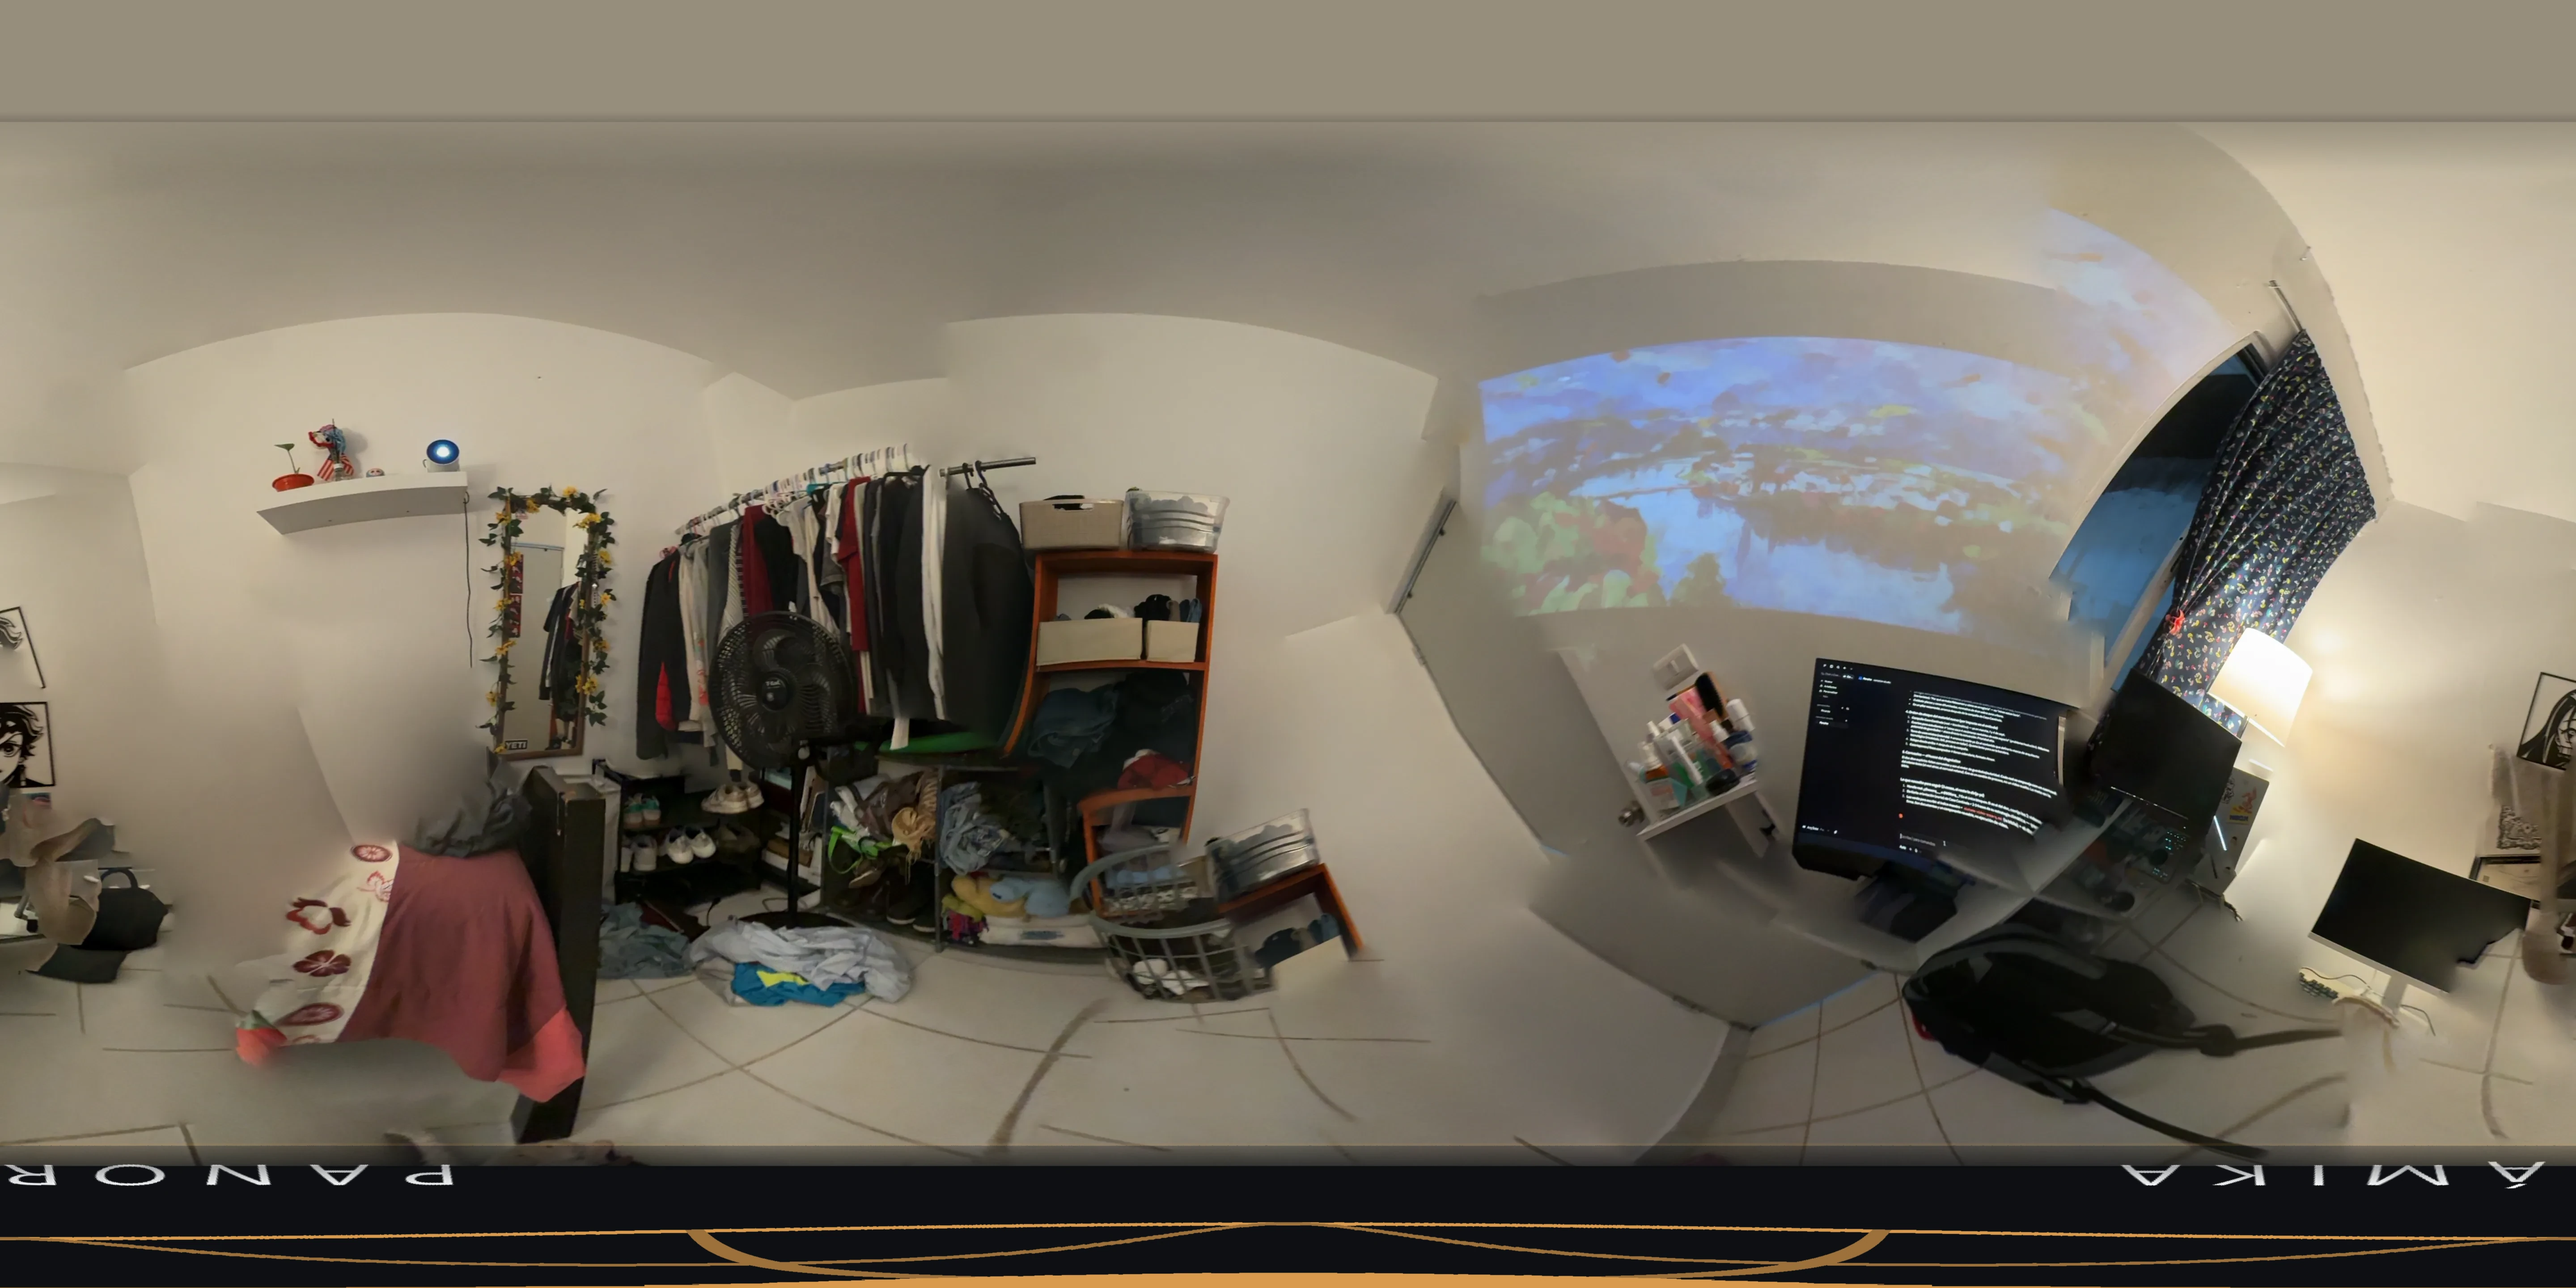
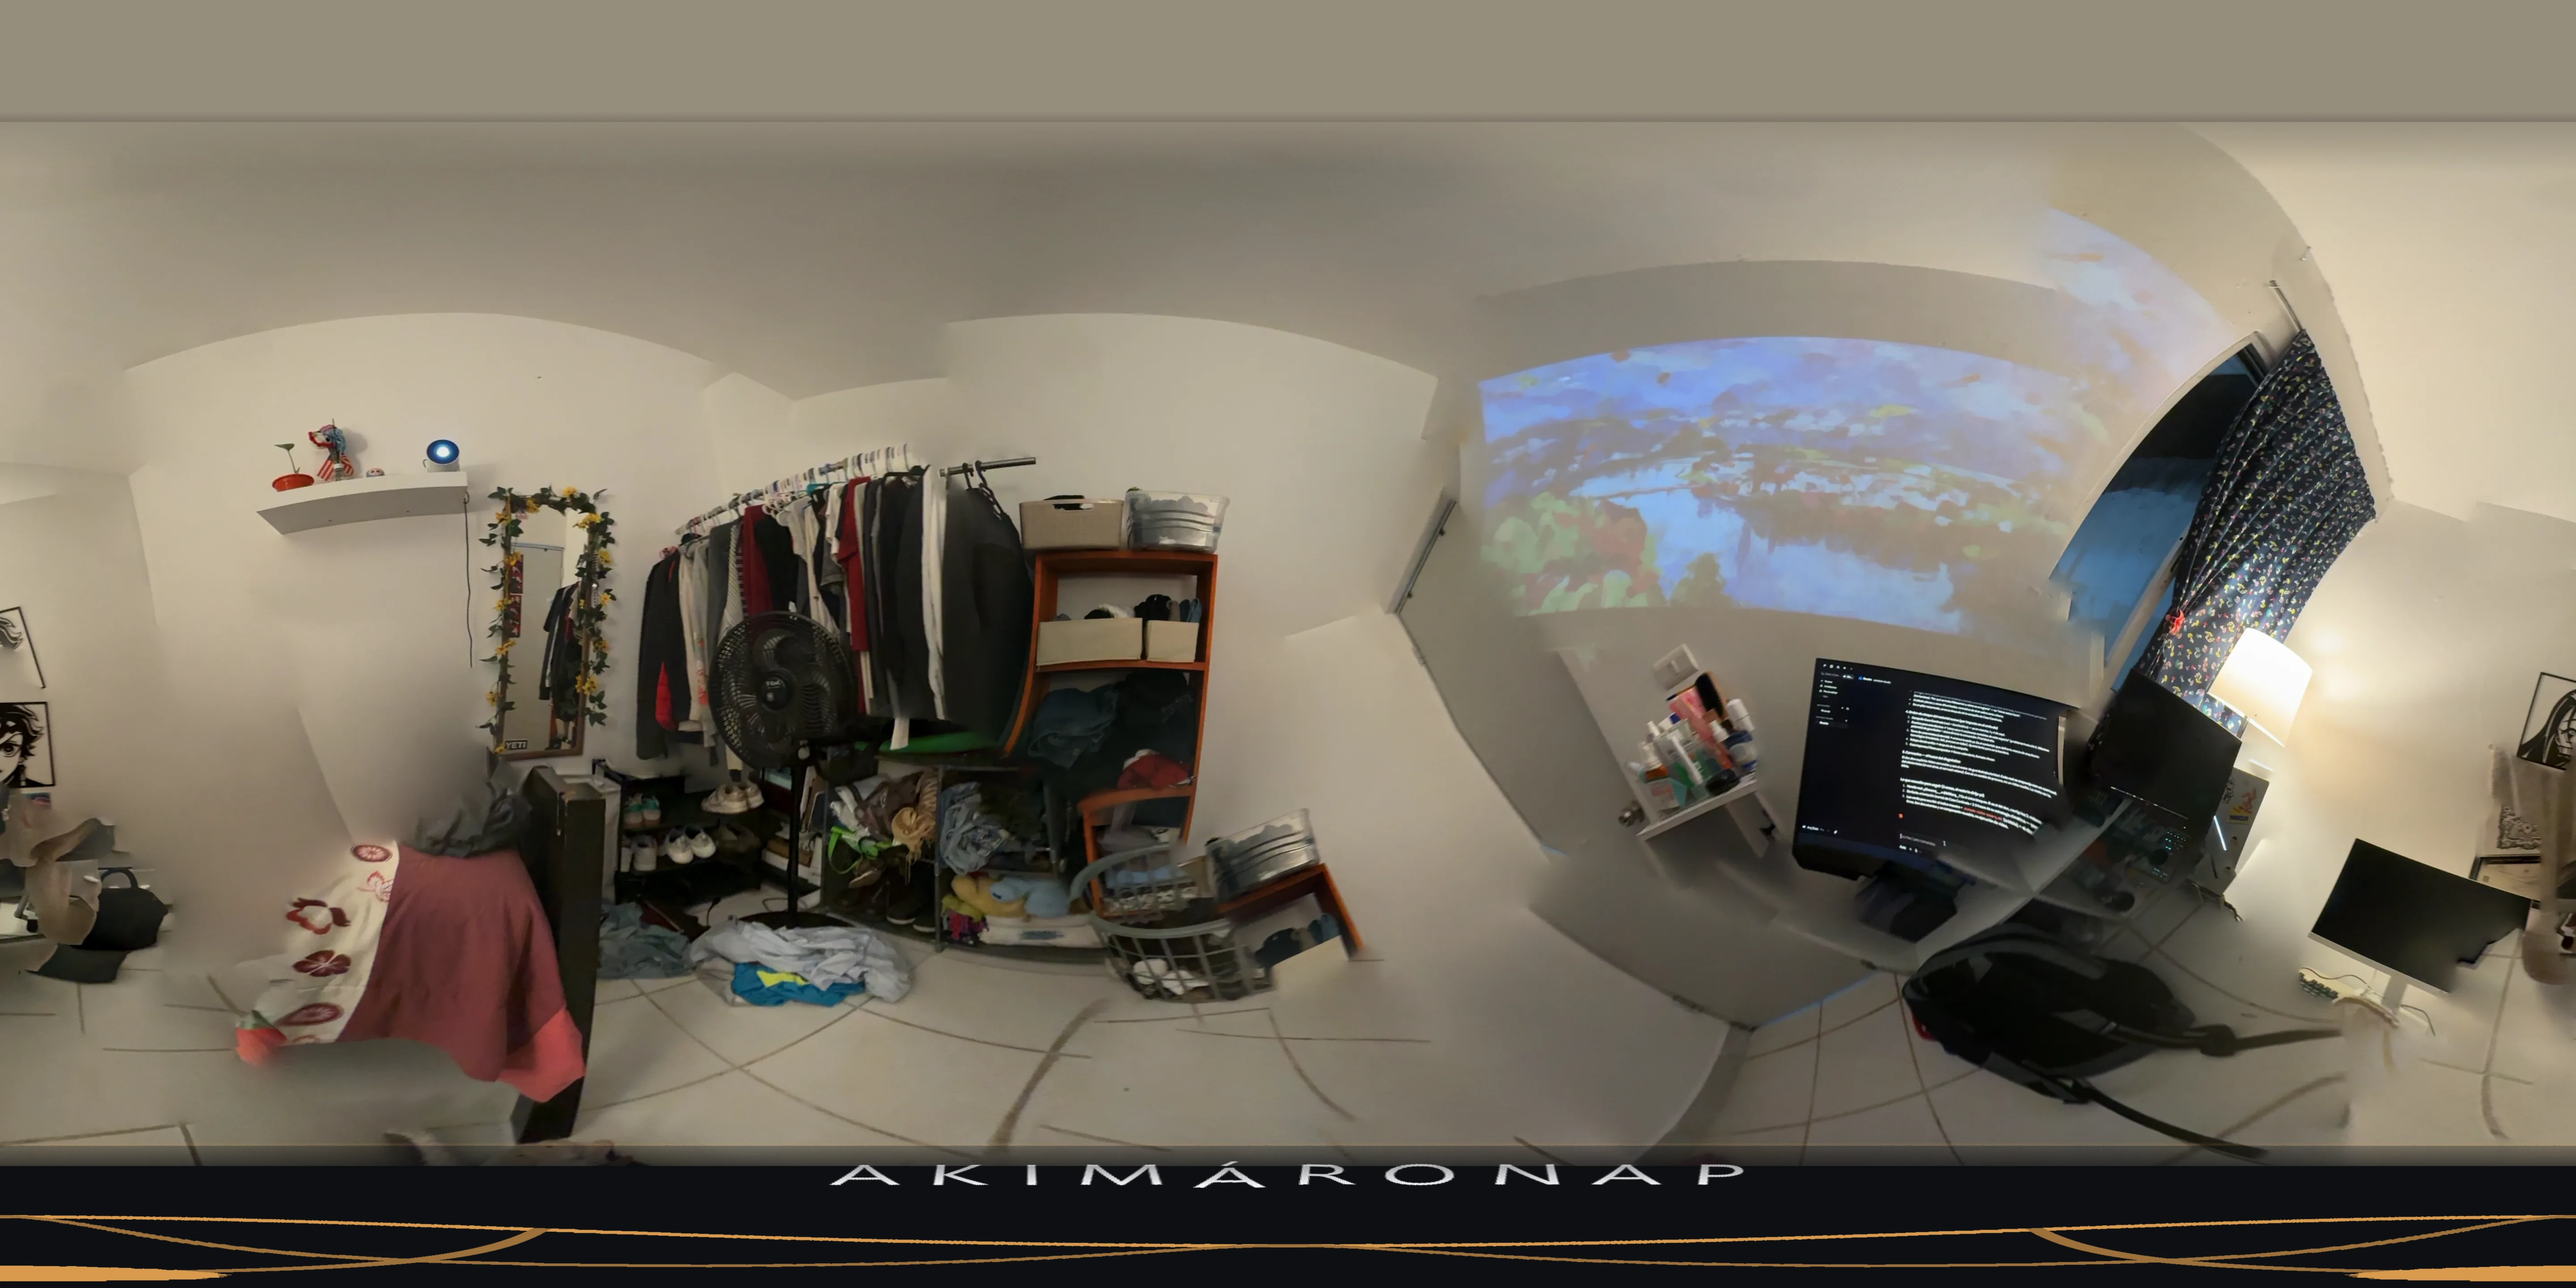
wip(tapar_polos): texto del nadir al arco de arriba (evita la costura)

Changed region(s): [[0.0, 0.9062, 0.75, 1.0], [0.7812, 0.9062, 1.0, 1.0]]

diff --git a/scripts/tapar_polos.py b/scripts/tapar_polos.py
@@ -81,15 +81,17 @@ def _texto_en_arco(img, texto, cx, cy, radio, px_fuente, color):
     sep = px_fuente * 0.28                       # aire entre letras
     total = sum(anchos) + sep * (len(texto) - 1)
     ang_total = total / radio                    # radianes que ocupa la palabra
-    ang_centro = math.pi / 2                     # 90° = abajo del disco
-    # El texto se lee de izquierda a derecha; en el arco de ABAJO eso es en
-    # sentido HORARIO decreciente de ángulo desde el borde izquierdo.
-    # Se recorre de IZQUIERDA a DERECHA: la izquierda del arco de abajo está en
-    # ángulos > 90°, así que empezamos alto y bajamos el ángulo por cada letra.
-    ang = ang_centro + ang_total / 2
+    # El texto se coloca en el arco de ARRIBA del disco. Al envolver el nadir,
+    # el "arriba" del disco cae en el CENTRO de la equirectangular (yaw 180°),
+    # una zona contigua — si se pone abajo cae justo en la costura (yaw 0°/360°)
+    # y la palabra se parte y se espeja. El disco además se ve "desde atrás" al
+    # mirar el piso desde dentro de la esfera, así que se recorre de DERECHA a
+    # IZQUIERDA y cada letra se voltea en horizontal.
+    ang_centro = -math.pi / 2                     # arriba del disco
+    ang = ang_centro - ang_total / 2
     for ch, w in zip(texto, anchos):
         paso = (w / 2) / radio
-        ang -= paso
+        ang += paso
         x = cx + radio * math.cos(ang)
         y = cy + radio * math.sin(ang)
         cajon = int(px_fuente * 1.8)
@@ -98,13 +100,11 @@ def _texto_en_arco(img, texto, cx, cy, radio, px_fuente, color):
         lb = ld.textbbox((0, 0), ch, font=f)
         ld.text(((cajon - (lb[2] - lb[0])) / 2 - lb[0],
                  (cajon - (lb[3] - lb[1])) / 2 - lb[1]), ch, font=f, fill=color + (255,))
-        # Tangente al arco: en el fondo del disco (ang=90°) la letra va derecha
-        # (giro 0); hacia los lados se inclina siguiendo la curva. PIL rota en
-        # sentido antihorario con ángulo positivo.
-        giro = 90.0 - math.degrees(ang)
+        letra = letra.transpose(Image.FLIP_LEFT_RIGHT)   # se lee "desde atrás"
+        giro = -(math.degrees(ang) + 90.0)               # tangente al arco de arriba
         letra = letra.rotate(giro, resample=Image.BICUBIC, expand=True)
         img.alpha_composite(letra, (int(x - letra.width / 2), int(y - letra.height / 2)))
-        ang -= paso + sep / radio
+        ang += paso + sep / radio
 
 
 def disco_marca(lado, texto):
@@ -120,7 +120,7 @@ def disco_marca(lado, texto):
 
     # --- Glifo: globo (círculo + elipse + meridiano), como el favicon -------
     g = r * 0.40                        # radio del globo
-    gy = c - r * 0.05                   # casi centrado (el texto va en el arco)
+    gy = c + r * 0.10                   # un poco abajo (el texto va en el arco de arriba)
     lw = max(2, int(lado * 0.011))
     d.ellipse([c - g, gy - g, c + g, gy + g], outline=ACENTO + (255,), width=lw)
     d.ellipse([c - g * 0.42, gy - g, c + g * 0.42, gy + g],
@@ -286,10 +286,6 @@ def main(argv):
     if nadir_grados > 0:
         lado = int(H * nadir_grados / 180.0) * 2 + 2
         disco = disco_marca(lado, texto)
-        # El envoltorio polar del nadir proyecta el disco "visto desde detrás"
-        # (al mirar el piso desde dentro de la esfera). Se espeja en horizontal
-        # para que el texto y el glifo se lean bien en el visor.
-        disco = disco.transpose(Image.FLIP_LEFT_RIGHT)
         equi = envolver_polo(equi, disco, nadir_grados, pluma, arriba=False)
         print(f"Nadir tapado: disco de marca, {nadir_grados:g}° de pitch"
               + (f', texto "{texto}"' if texto else ", sin texto"))
